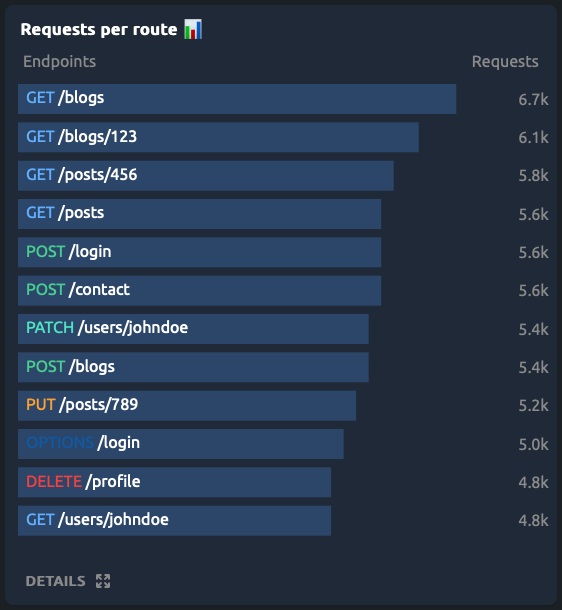
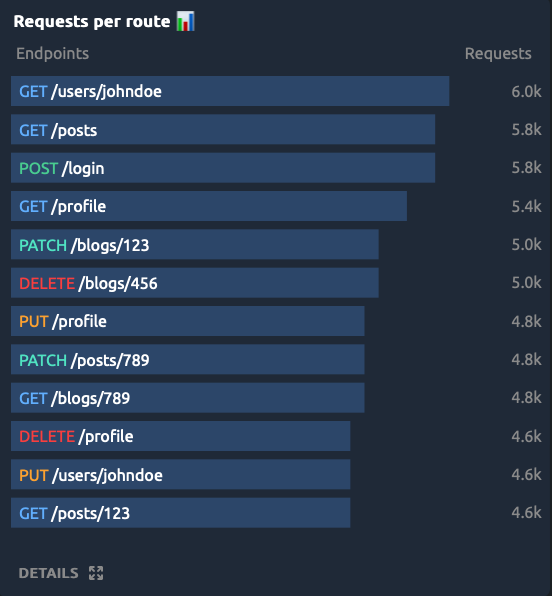
Fix endpoint ticks not being vertically centered in the bar charts
Didn't bother to reproduce and change the blog images.

diff --git a/src/components/dashboard/EndpointTick.tsx b/src/components/dashboard/EndpointTick.tsx
@@ -17,7 +17,7 @@ export const EndpointTick: React.FC<Props> = ({ payload, x, y }) => {
   const [method, path] = payload.value.split(' ');
 
   return (
-    <foreignObject x={x} y={y - 14} width="400" height="30">
+    <foreignObject x={x} y={y - 12} width="400" height="30">
       <span className={`text-method-${method.toLowerCase()} pointer-events-none`}>{method}</span>{' '}
       <span className="text-white pointer-events-none">{path}</span>
     </foreignObject>
